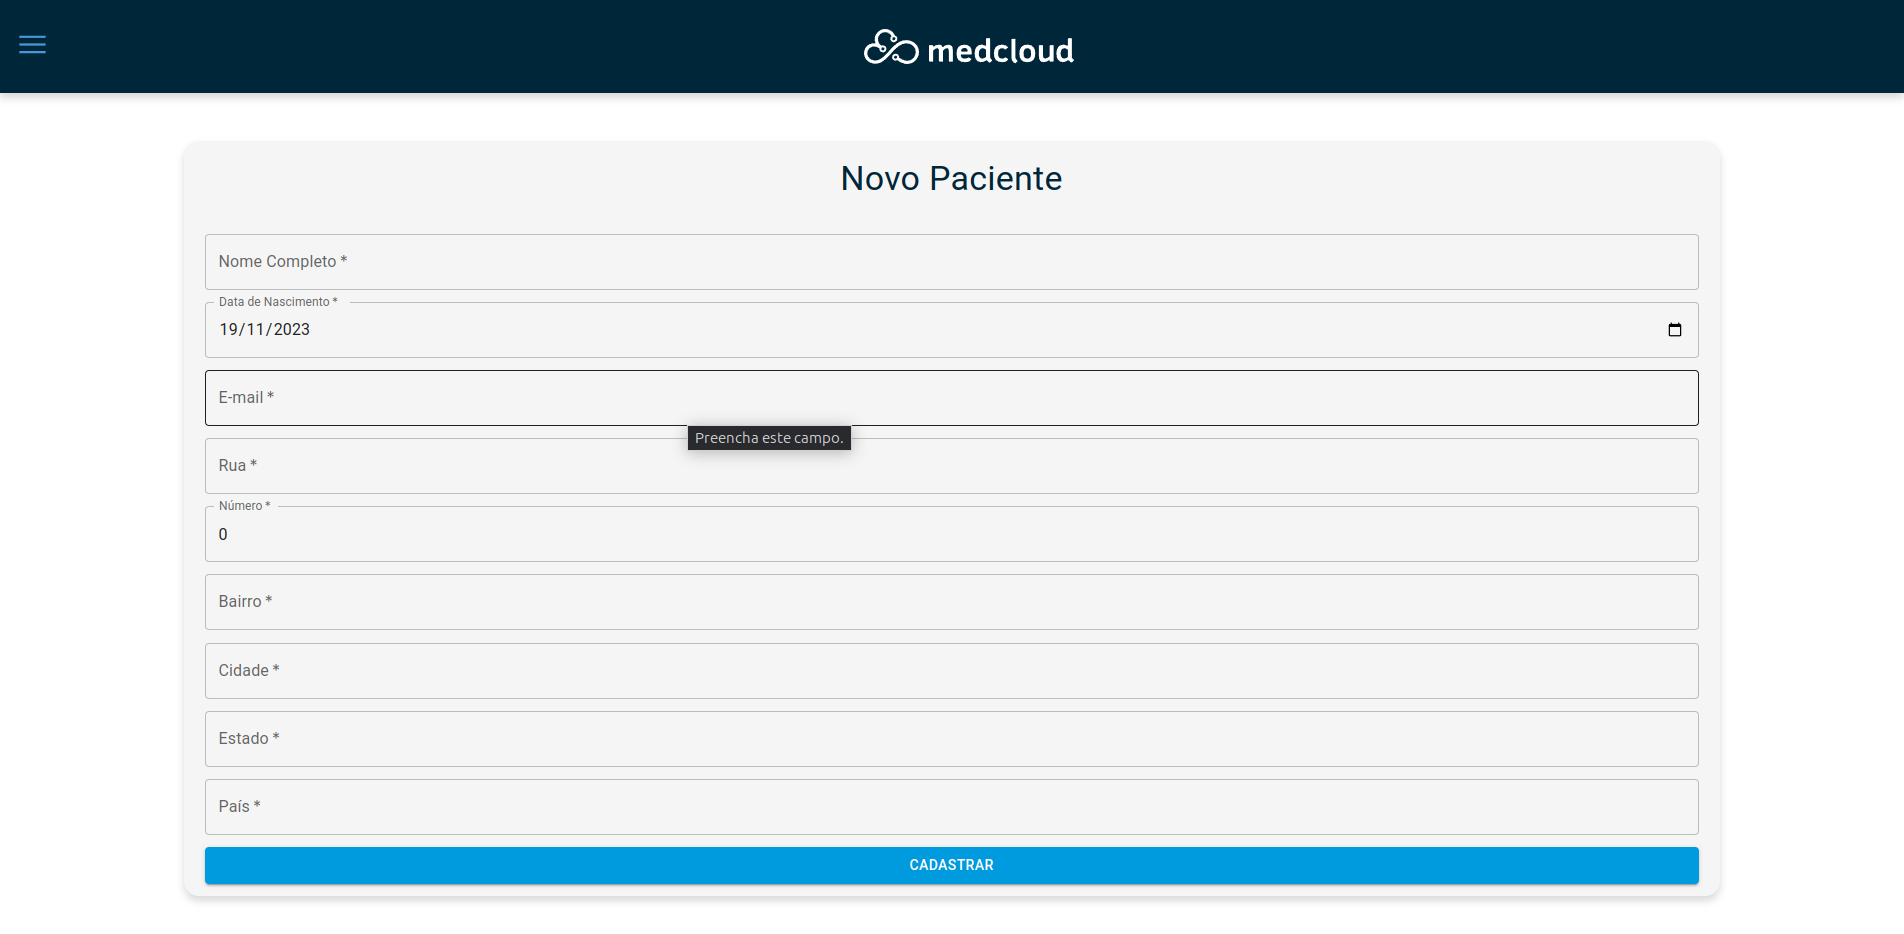
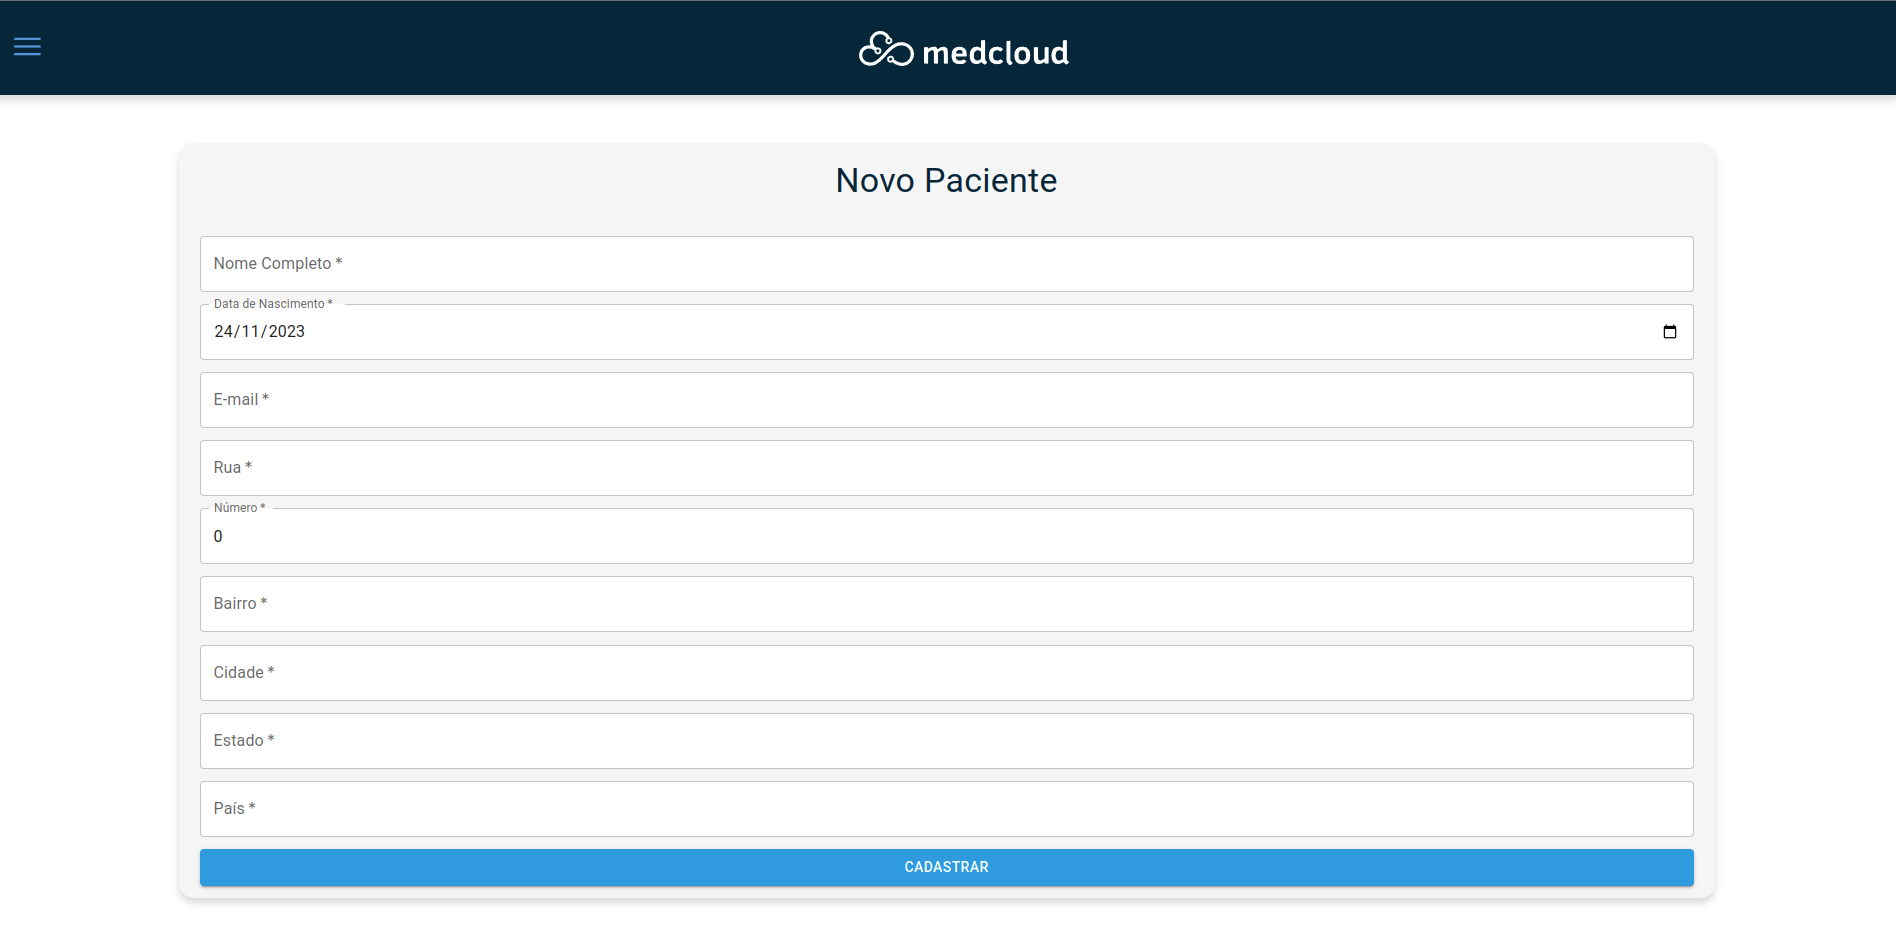
Frontend: Form input style changed

diff --git a/frontend/src/components/Form/Form.css b/frontend/src/components/Form/Form.css
@@ -14,7 +14,7 @@
 
 .form-input {
   align-items: center;
-  background-color: #f5f5f5;
+  background-color: #fff;
   border-radius: 5px;
   display: flex;
   flex-direction: column;
